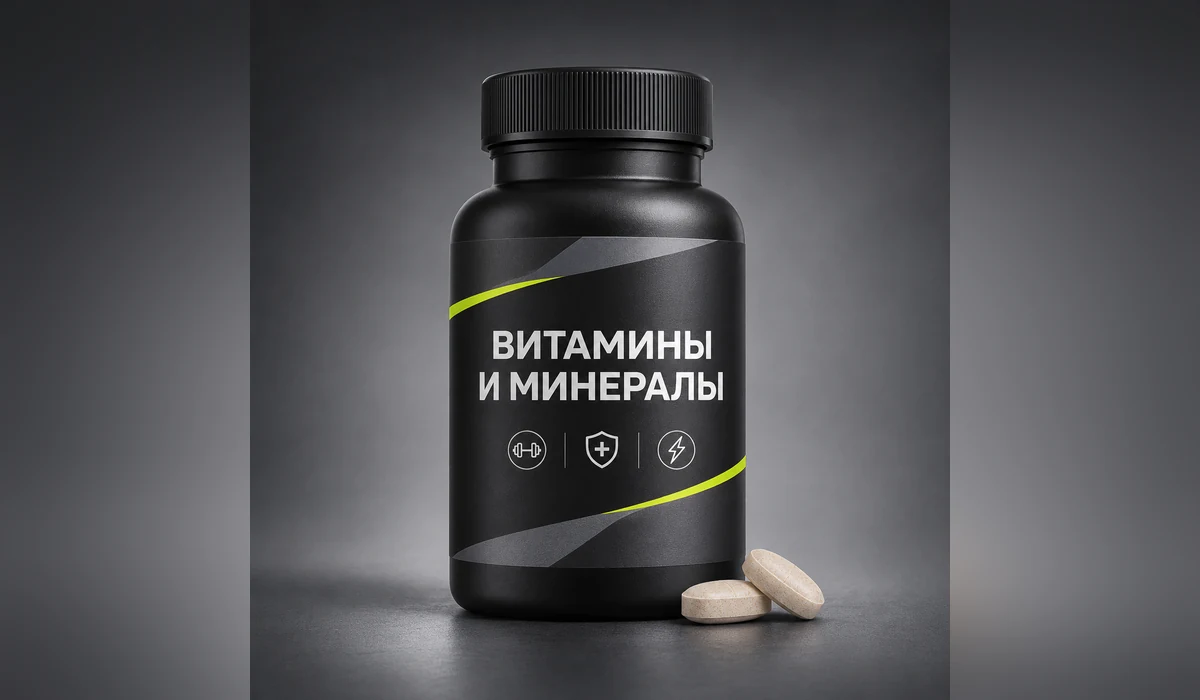
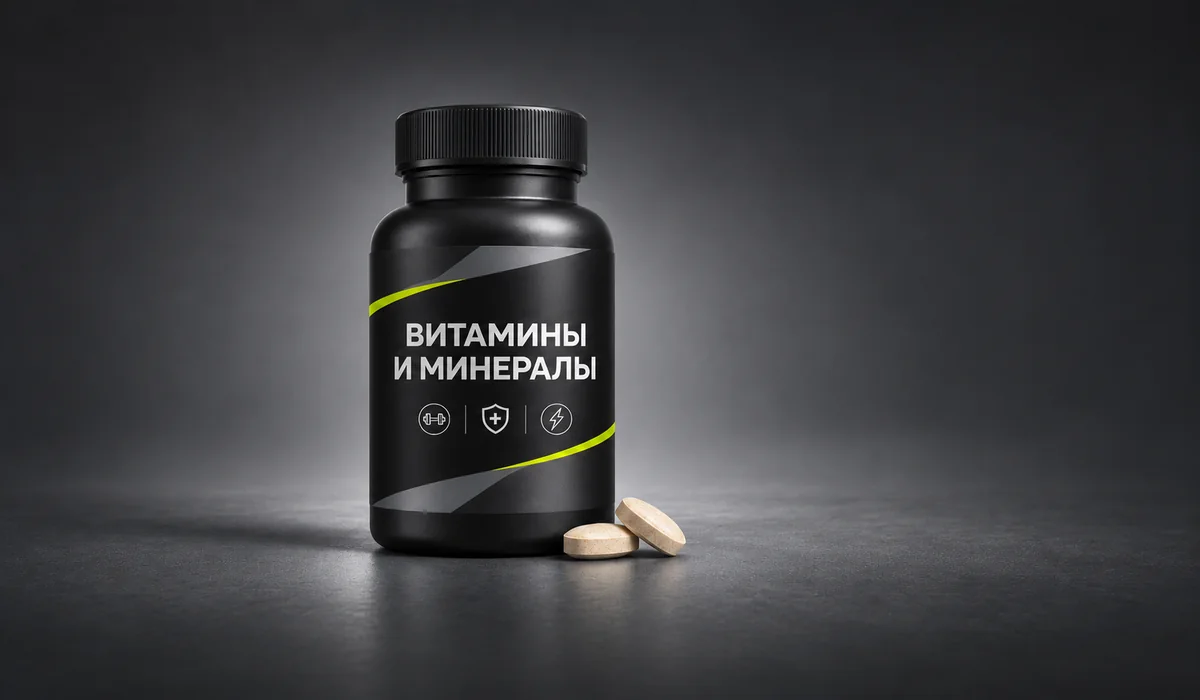
Replace all sportpit photos with seamless generated artwork in three responsive formats

diff --git a/src/components/SportPitScreen.jsx b/src/components/SportPitScreen.jsx
@@ -15,7 +15,7 @@ function ProductVisual({ item, compact = false }) {
   // Square covers are 1024×1024; full-width detail heroes are 1200×700.
   // Keep existing remote/bundled fallbacks for missing generated files.
   const generated = ['protein', 'gainer', 'creatine', 'bcaa', 'omega3', 'vitamins'].includes(item.slug)
-    ? `${import.meta.env.BASE_URL}assets/sportpit/${compact ? 'square' : 'hero'}/${item.slug}.webp`
+    ? `${import.meta.env.BASE_URL}assets/sportpit/${compact ? 'square' : 'hero'}/${item.slug}.webp?v=20261101-seamless`
     : '';
   const [source, setSource] = useState(generated || primary);
   const isGeneratedHero = !compact && Boolean(generated) && source === generated;

diff --git a/docs/design-system.md b/docs/design-system.md
@@ -103,3 +103,9 @@ Single UI family: Inter, weights 400/500/600/700/800.
 - In the collapsed sportpit disclaimer the text and “еще” button fit **together** within exactly two 16px lines. The expansion button overlays the end of line two. Expanded “скрыть” stays beneath the full text.
 - The refresh indicator always reads “Обновление”; gesture-driven transforms update once per animation frame directly (without a React render on each touch move). CSS transition applies only to the release/return animation.
 - The nutrition icon knife is moved 1.25 icon units farther from the fork, keeping its blade pointed toward the fork.
+
+## 2026-11-01 — Seamless supplement photography replacement
+- Replaced all 18 binary WebP assets for six categories with new generated photographs, not edge-blurred enlargements of the old pictures.
+- Each category has a **1200×700** seamless wide `hero` (detail), a matching **1024×1024** `square` (catalog cover), and a **256×256** `thumbnail`. Cover and detail depict the same updated product artwork.
+- All photo files reside at `public/assets/sportpit/{hero,square,thumbnail}/<slug>.webp`; they are committed as Git binary blobs and checked by the photo asset CI audit.
+- The rendered URLs include `?v=20261101-seamless` to prevent browsers/CDNs from reusing the previously cached photos.
